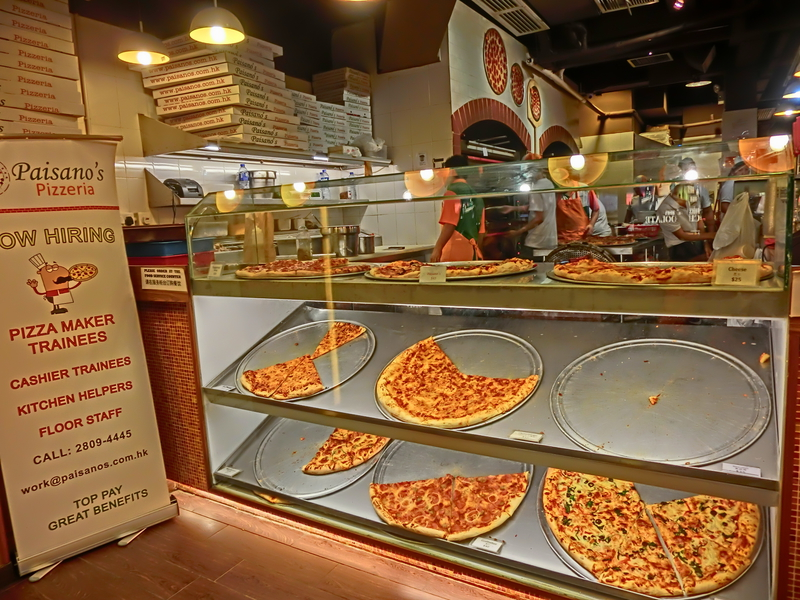
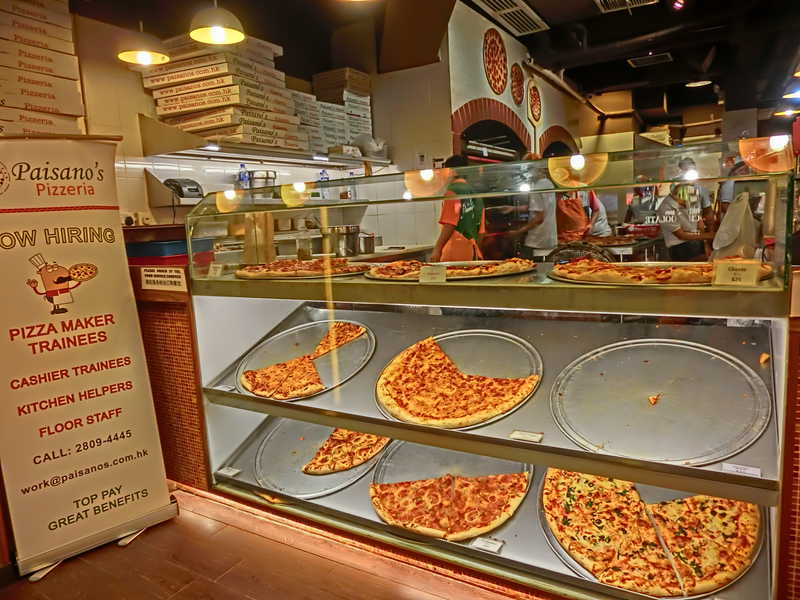
fix: once again reduced image quality

diff --git a/views/Gruntfile.js b/views/Gruntfile.js
@@ -16,12 +16,12 @@ module.exports = function(grunt) {
           sizes: [{
             width: '100%',
             suffix: '',
-            quality: 100
+            quality: 50
           },
           {
           	width: 800,
           	suffix: '',
-          	quality: 100
+          	quality: 50
           }
           ]
         },
